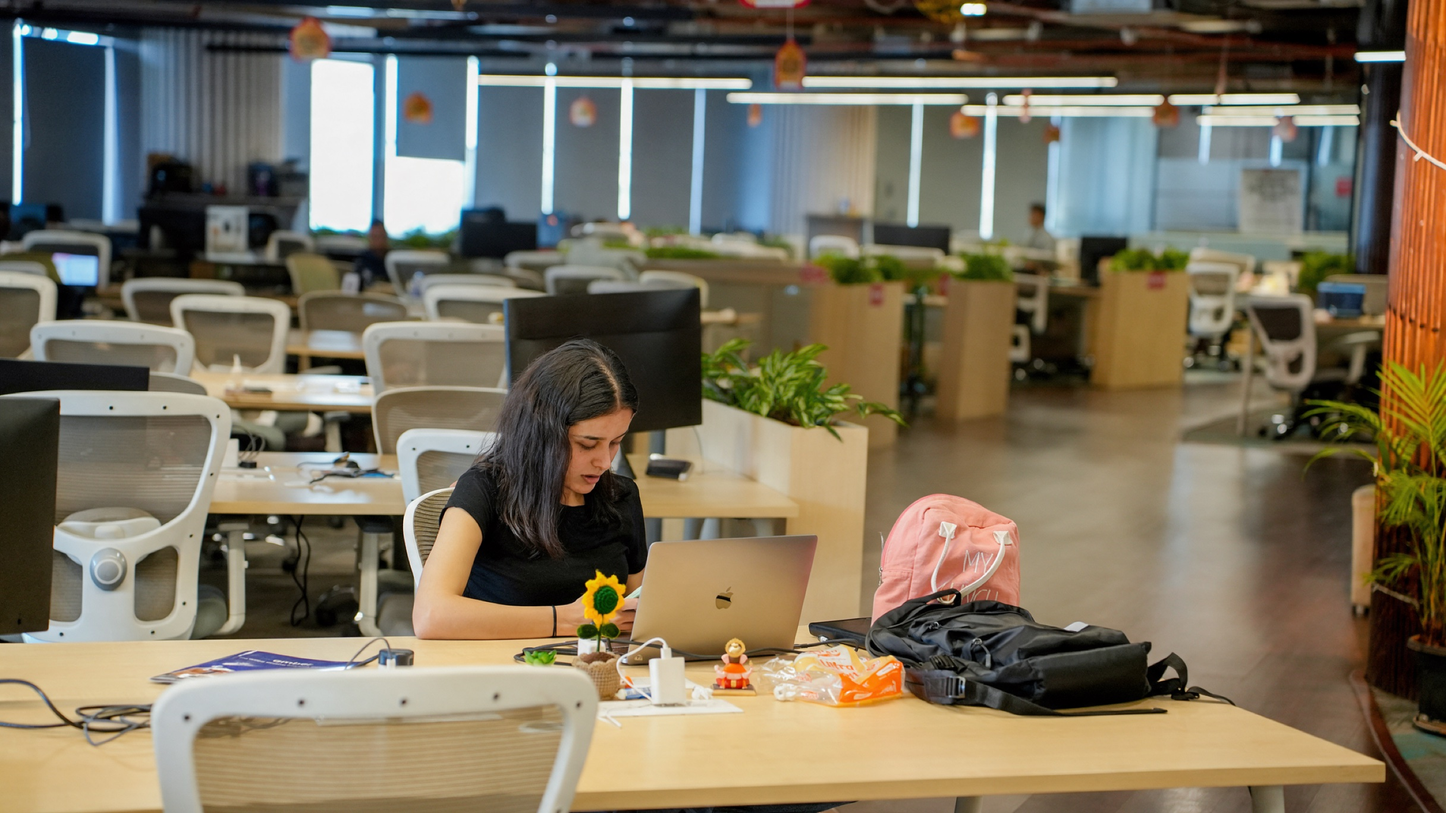
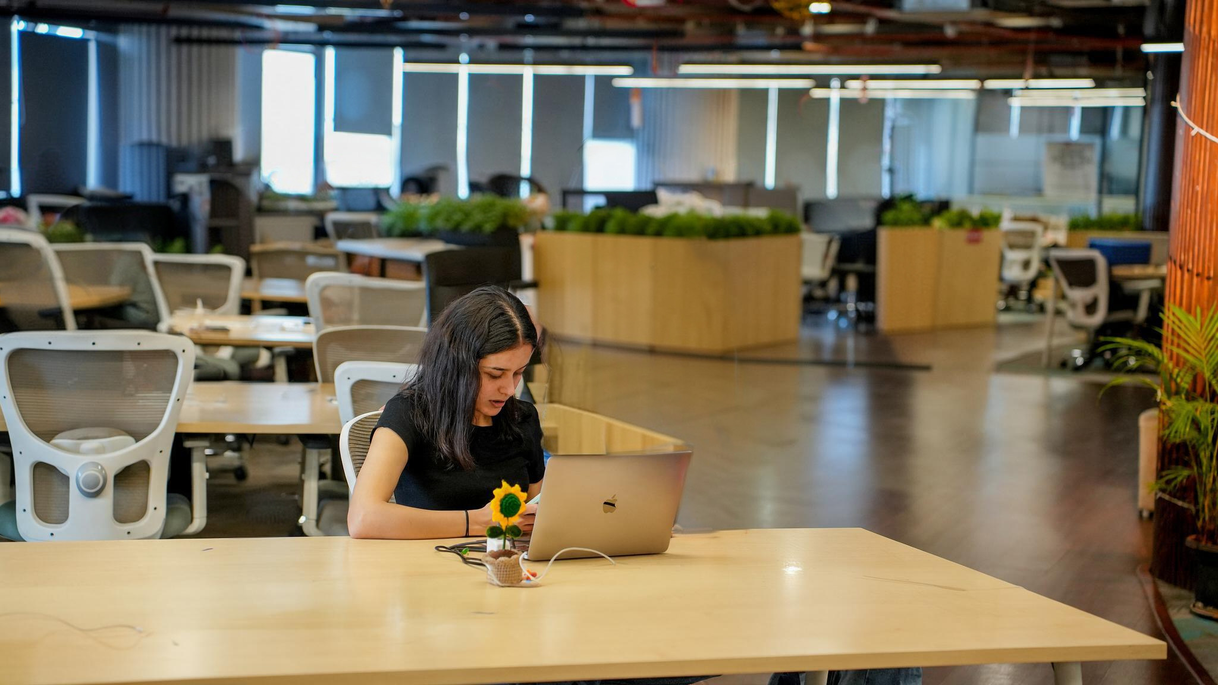
Career: hero image switcher, new hero photos, and de-duplicated gallery rows
Hero now carries three candidate photos behind a low-emphasis floating switch
at the bottom of the page, so the shot can be compared in place before one is
committed to: Campus (new), Open floor (replaces the old lounge shot at the
same asset path, so the page still pastes back upstream unchanged) and Neon
desk (new). Adding a fourth is one entry in HERO_OPTIONS.

The gallery's three rows each carried the full deck rotated by a fixed offset,
so every row walked the photos in the SAME order. Whenever two rows drifted
into a matching angle they showed the same run of photos stacked directly
above one another — four abreast in practice. Each row now walks the deck with
its own stride, co-prime with the 18-card length, so it still visits every
photo exactly once but in a different order: the longest run two rows can share
drops from 18 cards to 1.

Nav: "Blogs" becomes "Visit Amber", pointing at the site root.

diff --git a/src/pages/CareerFinal/components/Hero/Hero.tsx b/src/pages/CareerFinal/components/Hero/Hero.tsx
@@ -4,15 +4,44 @@ import wrapperHOC from "@Utils/wrapperHOC";
 import Reveal from "../../../AboutUsV2/components/Reveal/Reveal";
 import RolesButton from "../RolesButton/RolesButton";
 import styles from "./Hero.module.scss";
-// 2432x1368 (16:9) JPEG — the hero goes full-bleed at 100vw before shrinking,
-// so it needs the extra width; JPEG keeps it at 767KB instead of 6MB.
+// 16:9 JPEGs — the hero goes full-bleed at 100vw before shrinking, so it needs
+// the width; JPEG keeps each one under 500KB instead of several MB.
 import heroImg from "../../assets/hero.jpg";
+import heroNeonImg from "../../assets/hero-neon.jpg";
+// 3:2 rather than 16:9 like the other two, so `object-fit: cover` trims roughly
+// 8% off the top and bottom of this one inside the hero frame.
+import heroCampusImg from "../../assets/hero-campus.jpg";
+
+// Hero photo candidates, switchable from the floating control at the bottom of
+// the page so the shot can be compared in place before one is committed to.
+// Adding another option is one entry here; the switch sizes itself to the list.
+const HERO_OPTIONS = [
+  {
+    id: "campus",
+    label: "Campus",
+    src: heroCampusImg,
+    alt: "Students talking on a campus bench under blossoming trees",
+  },
+  {
+    id: "open-floor",
+    label: "Open floor",
+    src: heroImg,
+    alt: "An amber team member working at a laptop in the open-plan office",
+  },
+  {
+    id: "neon",
+    label: "Neon desk",
+    src: heroNeonImg,
+    alt: "Two amber teammates working together under a neon 'Believe in your dreams' sign",
+  },
+];
 
 // Distance (px) over which the hero image eases from full-bleed to contained.
 const SHRINK_DISTANCE = 420;
 
 const Hero = () => {
   const [mediaShown, setMediaShown] = useState(false);
+  const [heroOption, setHeroOption] = useState(0);
   const mediaRef = useRef<HTMLDivElement>(null);
 
   // On first load: reveal the hero image AFTER the title + button have shown.
@@ -68,13 +97,30 @@ const Hero = () => {
 
       <div ref={mediaRef} className={`${styles.media} ${mediaShown ? styles.mediaShown : ""}`}>
         <Image
-          src={heroImg}
-          alt="An amber team member working in a sunlit office lounge"
+          key={HERO_OPTIONS[heroOption].id}
+          src={HERO_OPTIONS[heroOption].src}
+          alt={HERO_OPTIONS[heroOption].alt}
           className={styles.image}
           width="100%"
           height="100%"
           isEagerLoad
         />
+      </div>
+
+      {/* Deliberately low-contrast: a review aid that sits over the page
+          without competing with it. Comes up to full opacity on hover/focus. */}
+      <div className={styles.switch} role="group" aria-label="Hero image option">
+        {HERO_OPTIONS.map((option, index) => (
+          <button
+            key={option.id}
+            type="button"
+            className={`${styles.switchOption} ${index === heroOption ? styles.switchOptionActive : ""}`}
+            aria-pressed={index === heroOption}
+            onClick={() => setHeroOption(index)}
+          >
+            {option.label}
+          </button>
+        ))}
       </div>
     </section>
   );

diff --git a/src/pages/CareerFinal/components/Gallery/Gallery.tsx b/src/pages/CareerFinal/components/Gallery/Gallery.tsx
@@ -85,9 +85,26 @@ const CARDS: Shot[] = [
 // is, until there are enough photos for twelve a row.
 //
 // The cost is duplicates: every row draws from the same deck, so a photo can be
-// visible in two rows at once. Offsets space them as far apart as the deck allows,
-// which is the most that can be done without more photos — the rows spin at
-// different speeds, so no offset keeps them apart forever.
+// visible in two rows at once. That is unavoidable without more photos — but
+// what made it READ as duplication was the ordering, not the repeat.
+//
+// Rotating one deck (the old `[...slice(k), ...slice(0, k)]`) leaves every row
+// walking the photos in the SAME sequence, just started at a different card. So
+// whenever two rows drifted into a matching angle — and they do, since a rotation
+// by k slots is exactly what the spin keeps producing — they showed the same RUN
+// of photos, in the same order, stacked directly above one another. Four abreast
+// in the screenshot that prompted this.
+//
+// Each row now walks the deck with its own STRIDE instead. A stride co-prime with
+// the deck length visits every card exactly once before repeating, so each row
+// still carries the full deck (the arc needs the count) while no two rows ever
+// share more than a single card in sequence. Lone coincidences still happen and
+// the rows' differing speeds carry them apart within a second or two; it is the
+// four-in-a-row block that is now impossible.
+//
+// STRIDES MUST STAY CO-PRIME WITH CARDS.length. A common factor makes the walk
+// close early and the row would carry a repeating subset instead of the deck —
+// 6 against 18 would give one photo cycled three times. Asserted below in dev.
 //
 // WHEN 18 MORE PHOTOS ARRIVE: switch to disjoint slices of twelve —
 //   const PER_ROW = Math.floor(CARDS.length / ROW_COUNT);
@@ -95,11 +112,24 @@ const CARDS: Shot[] = [
 // — which makes a repeat impossible AND keeps the arc, since each row still holds
 // twelve cards.
 const ROW_COUNT = 3;
-const ROW_OFFSET = [0, 6, 12];
-const ROWS: Shot[][] = Array.from({ length: ROW_COUNT }, (_, r) => {
-  const k = ROW_OFFSET[r] % CARDS.length;
-  return [...CARDS.slice(k), ...CARDS.slice(0, k)];
-});
+const ROW_START = [0, 6, 12];
+const ROW_STRIDE = [1, 5, 7];
+const ROWS: Shot[][] = Array.from({ length: ROW_COUNT }, (_, r) =>
+  CARDS.map((_card, i) => CARDS[(ROW_START[r] + i * ROW_STRIDE[r]) % CARDS.length]),
+);
+
+if (__DEV__) {
+  const gcd = (a: number, b: number): number => (b ? gcd(b, a % b) : a);
+  ROW_STRIDE.forEach((stride, r) => {
+    if (gcd(stride, CARDS.length) !== 1) {
+      // eslint-disable-next-line no-console
+      console.warn(
+        `Gallery: ROW_STRIDE[${r}] = ${stride} shares a factor with the ${CARDS.length}-card deck, ` +
+          "so that row repeats a subset instead of carrying every photo.",
+      );
+    }
+  });
+}
 
 // ---- Cylinder geometry ---------------------------------------------------
 // Cards sit on the INSIDE wall of a cylinder with the viewer at its centre,

diff --git a/src/pages/CareerFinal/components/Hero/Hero.module.scss b/src/pages/CareerFinal/components/Hero/Hero.module.scss
@@ -138,3 +138,70 @@
     border-radius: calc(16px * var(--shrink));
   }
 }
+
+/* --------------------------------------------------- hero image switcher */
+
+// A review control, not page furniture: it floats above the page, sits at 45%
+// opacity so it never pulls the eye away from the hero, and only resolves to
+// full strength when it is actually being used (hover / keyboard focus).
+.switch {
+  backdrop-filter: blur(12px);
+  background: rgba(255, 255, 255, 0.72);
+  border: 1px solid rgba(10, 10, 40, 0.08);
+  border-radius: 999px;
+  bottom: 24px;
+  box-shadow: 0 6px 24px rgba(10, 10, 40, 0.08);
+  display: flex;
+  gap: 2px;
+  left: 50%;
+  opacity: 0.45;
+  padding: 4px;
+  position: fixed;
+  transform: translateX(-50%);
+  transition: opacity 0.2s ease;
+  z-index: 60;
+
+  &:hover,
+  &:focus-within {
+    opacity: 1;
+  }
+}
+
+.switchOption {
+  appearance: none;
+  background: transparent;
+  border: 0;
+  border-radius: 999px;
+  color: rgba(10, 10, 40, 0.55);
+  cursor: pointer;
+  font-family: inherit;
+  font-size: 12px;
+  font-weight: 500;
+  letter-spacing: -0.1px;
+  line-height: 16px;
+  padding: 6px 14px;
+  transition: background 0.2s ease, color 0.2s ease;
+  white-space: nowrap;
+
+  &:hover {
+    color: rgba(10, 10, 40, 0.8);
+  }
+}
+
+.switchOptionActive {
+  background: rgba(10, 10, 40, 0.07);
+  color: rgba(10, 10, 40, 0.9);
+}
+
+@media (max-width: 600px) {
+  .switch {
+    bottom: 16px;
+  }
+}
+
+@media (prefers-reduced-motion: reduce) {
+  .switch,
+  .switchOption {
+    transition: none;
+  }
+}

diff --git a/src/pages/CareerFinal/CareerFinal.tsx b/src/pages/CareerFinal/CareerFinal.tsx
@@ -34,7 +34,7 @@ const CareerFinal = () => (
         the CTA becomes "Apply now", secondary until the page is scrolled. */}
     <Navbar
       links={[
-        { label: "Blogs", href: "/blog" },
+        { label: "Visit Amber", href: "/" },
         { label: "About Us", href: "/about-us-v2" },
       ]}
       ctaLabel="Apply now"
